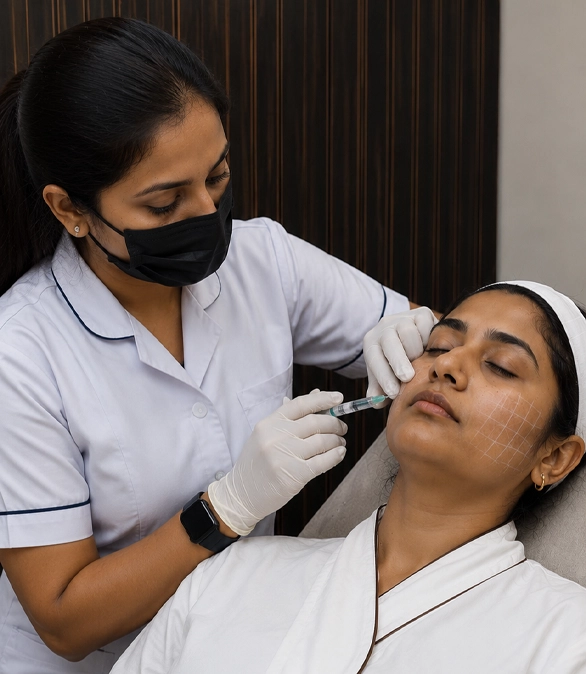
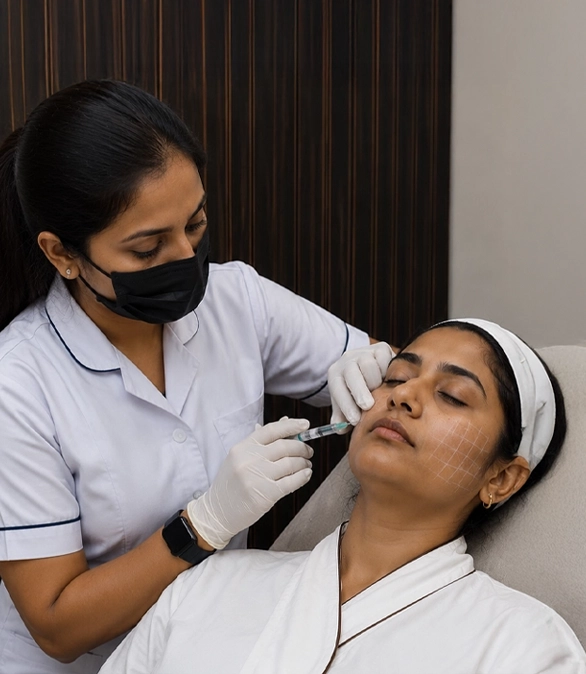
feat: define ServiceData schema and add Botox and fillers service assets

diff --git a/src/lib/servicesData.ts b/src/lib/servicesData.ts
@@ -1314,7 +1314,7 @@ export const SERVICES_DATA: Record<string, ServiceData> = {
     deviceSub: "PREMIUM BRANDS • STERILE SYSTEM • PINPOINT PRECISION",
     deviceDesc: "We exclusively use original, FDA-approved botulinum toxin formulations to guarantee maximum safety and predictable, natural-looking results.",
     deviceFeatures: ["FDA-Approved", "Original Products", "Precise Dosing", "Comfort-Focused Needle"],
-    deviceImage: "/services/hifu/hifu.webp",
+    deviceImage: "/services/Botox/3.webp",
     comparisonTitle: "COSMO HOME vs Standard Clinic",
     comparisonRows: [
       { label: "Dosage", ours: "Calibrated micro-dosing for soft movement", standard: "Standardized high-dose frozen look" },
@@ -1357,8 +1357,8 @@ export const SERVICES_DATA: Record<string, ServiceData> = {
     ],
     ctaImage: "https://images.unsplash.com/photo-1544005313-94ddf0286df2?w=1600&h=900&fit=crop&auto=format",
     beforeAfter: {
-      beforeImage: "/services/before&after/injections/before.webp",
-      afterImage: "/services/before&after/injections/after.webp",
+      beforeImage: "/services/Botox/before.webp",
+      afterImage: "/services/Botox/after.webp",
       treatmentName: "Botox Wrinkle Relaxing",
       testimonialText: "I wanted to soften my frown lines without looking frozen. The results are subtle, natural, and precisely what I hoped for.",
       patientName: "Priyanka M., 34",
@@ -1401,7 +1401,7 @@ export const SERVICES_DATA: Record<string, ServiceData> = {
     deviceSub: "FDA-APPROVED GELS • SEAMLESS INTEGRATION • EXPERT ANATOMICAL PLACEMENT",
     deviceDesc: "We select specific gel densities (from soft lip fillers to firm structural jaw fillers) using top-tier global brands to guarantee predictable lifting and safety.",
     deviceFeatures: ["FDA-Approved GELS", "Cohesive Technology", "Anatomical Precision", "Reversible Option"],
-    deviceImage: "/services/hifu/hifu.webp",
+    deviceImage: "/services/fillers/3.webp",
     comparisonTitle: "COSMO HOME vs Standard Clinic",
     comparisonRows: [
       { label: "Approach", ours: "Volume restoration based on bone support", standard: "Overfilling soft tissue (puffy look)" },
@@ -1444,8 +1444,8 @@ export const SERVICES_DATA: Record<string, ServiceData> = {
     ],
     ctaImage: "https://images.unsplash.com/photo-1544005313-94ddf0286df2?w=1600&h=900&fit=crop&auto=format",
     beforeAfter: {
-      beforeImage: "/services/before&after/injections/before.webp",
-      afterImage: "/services/before&after/injections/after.webp",
+      beforeImage: "/services/fillers/before.webp",
+      afterImage: "/services/fillers/after.webp",
       treatmentName: "Dermal Fillers Volume Restoration",
       testimonialText: "My cheeks and jawline feel beautifully contoured and restored. The treatment was comfortable and the results look completely natural.",
       patientName: "Shweta K., 38",
